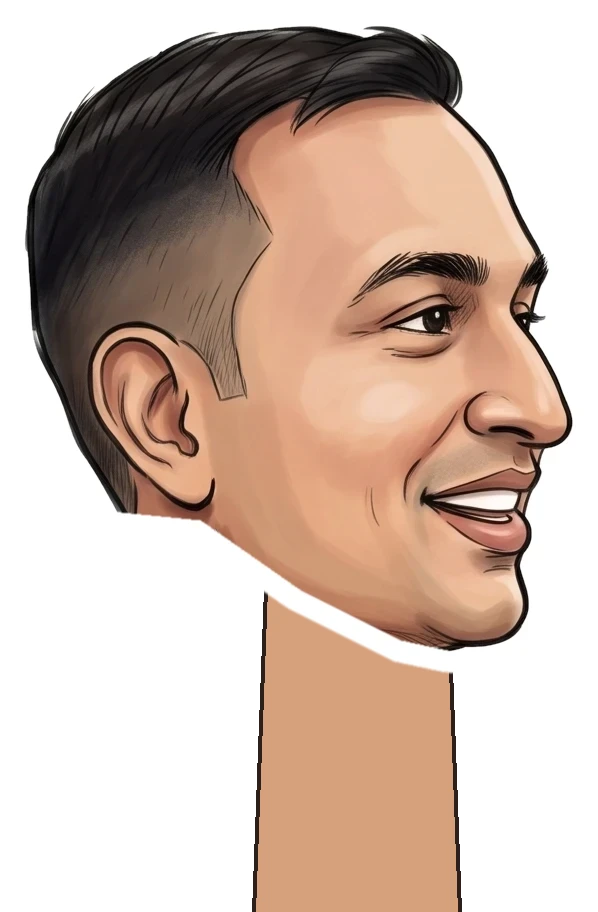
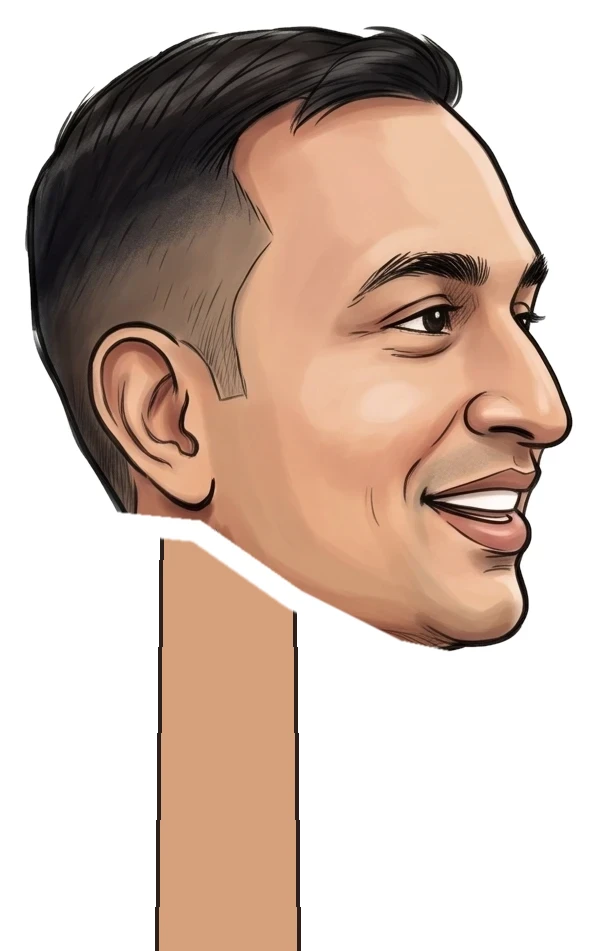
Neck behind the ear; restore 3-blade propeller
Claude-Session: https://claude.ai/code/session_014wiP6WimH2b4AML7aFrYC6

diff --git a/index.html b/index.html
@@ -179,10 +179,10 @@
   <img class="art" data-box="0,0,1680,944" src="assets/land-day.webp" alt="">
   <img class="art ph1" data-box="0,0,1680,944" src="assets/land-sunset.webp" alt="">
   <img class="art ph2" data-box="0,0,1680,944" src="assets/land-night.webp" alt="">
-<div id="plane" class="sprite"><img src="assets/plane-body.webp" alt=""><div class="propwrap" style="left:-3.333%;top:-1.679%;width:35.714%;height:71.942%"><img class="prop" src="assets/propeller.webp" alt=""></div><img id="hPlane2" class="head flip" src="assets/head-p-walk-n.webp" alt="" style="left:47.62%;top:-12.47%;width:13.87%;height:42.62%;opacity:0"><img id="hPlane" class="head flip" src="assets/head-p-plane-n.webp" alt="" style="left:48.21%;top:-11.51%;width:13.26%;height:46.65%"></div>
+<div id="plane" class="sprite"><img src="assets/plane-body.webp" alt=""><div class="propwrap" style="left:-3.333%;top:-1.679%;width:35.714%;height:71.942%"><img class="prop" src="assets/propeller.webp" alt=""></div><img id="hPlane2" class="head flip" src="assets/head-p-walk-n.webp" alt="" style="left:46.67%;top:-12.47%;width:13.87%;height:44.44%;opacity:0"><img id="hPlane" class="head flip" src="assets/head-p-plane-n.webp" alt="" style="left:47.62%;top:-11.51%;width:13.26%;height:44.46%"></div>
   <div id="manu" class="sprite"><img src="assets/manu-body.webp" alt=""><div class="arm"><img src="assets/manu-arm.webp" alt=""></div><img id="hManu" class="head" src="assets/head-m-wave.webp" alt="" style="left:29.57%;top:10.45%;width:47.91%;height:27.03%"><img id="hManuR" class="head" src="assets/head-m-upright.webp" alt="" style="left:28.70%;top:10.45%;width:46.90%;height:27.03%;opacity:0"><img id="hManuL" class="head" src="assets/head-m-left.webp" alt="" style="left:26.96%;top:11.17%;width:43.43%;height:26.31%;opacity:0"></div>
   <div id="planeEmpty" class="sprite"><img src="assets/plane-empty.webp" alt=""><div class="propwrap" style="left:-3.333%;top:-1.679%;width:35.714%;height:71.942%"><img class="prop slow" src="assets/propeller.webp" alt=""></div></div>
-  <div id="walker" class="sprite"><img src="assets/walker-body.webp" alt=""><img id="hWalk" class="head" src="assets/head-p-walk-n.webp" alt="" style="left:25.84%;top:-10.29%;width:35.95%;height:32.74%"></div>
+  <div id="walker" class="sprite"><img src="assets/walker-body.webp" alt=""><img id="hWalk" class="head" src="assets/head-p-walk-n.webp" alt="" style="left:34.93%;top:-10.00%;width:35.95%;height:34.14%"></div>
   <div id="hug" class="sprite"><img src="assets/hug-body.webp" alt=""><img id="hHugM" class="head" src="assets/head-m-hug.webp" alt="" style="left:19.86%;top:-5.06%;width:28.13%;height:24.19%"><img id="hHugP" class="head" src="assets/head-p-hug.webp" alt="" style="left:-1.89%;top:3.94%;width:25.04%;height:18.85%"></div>
   <div id="hearts"></div>
 </div>
